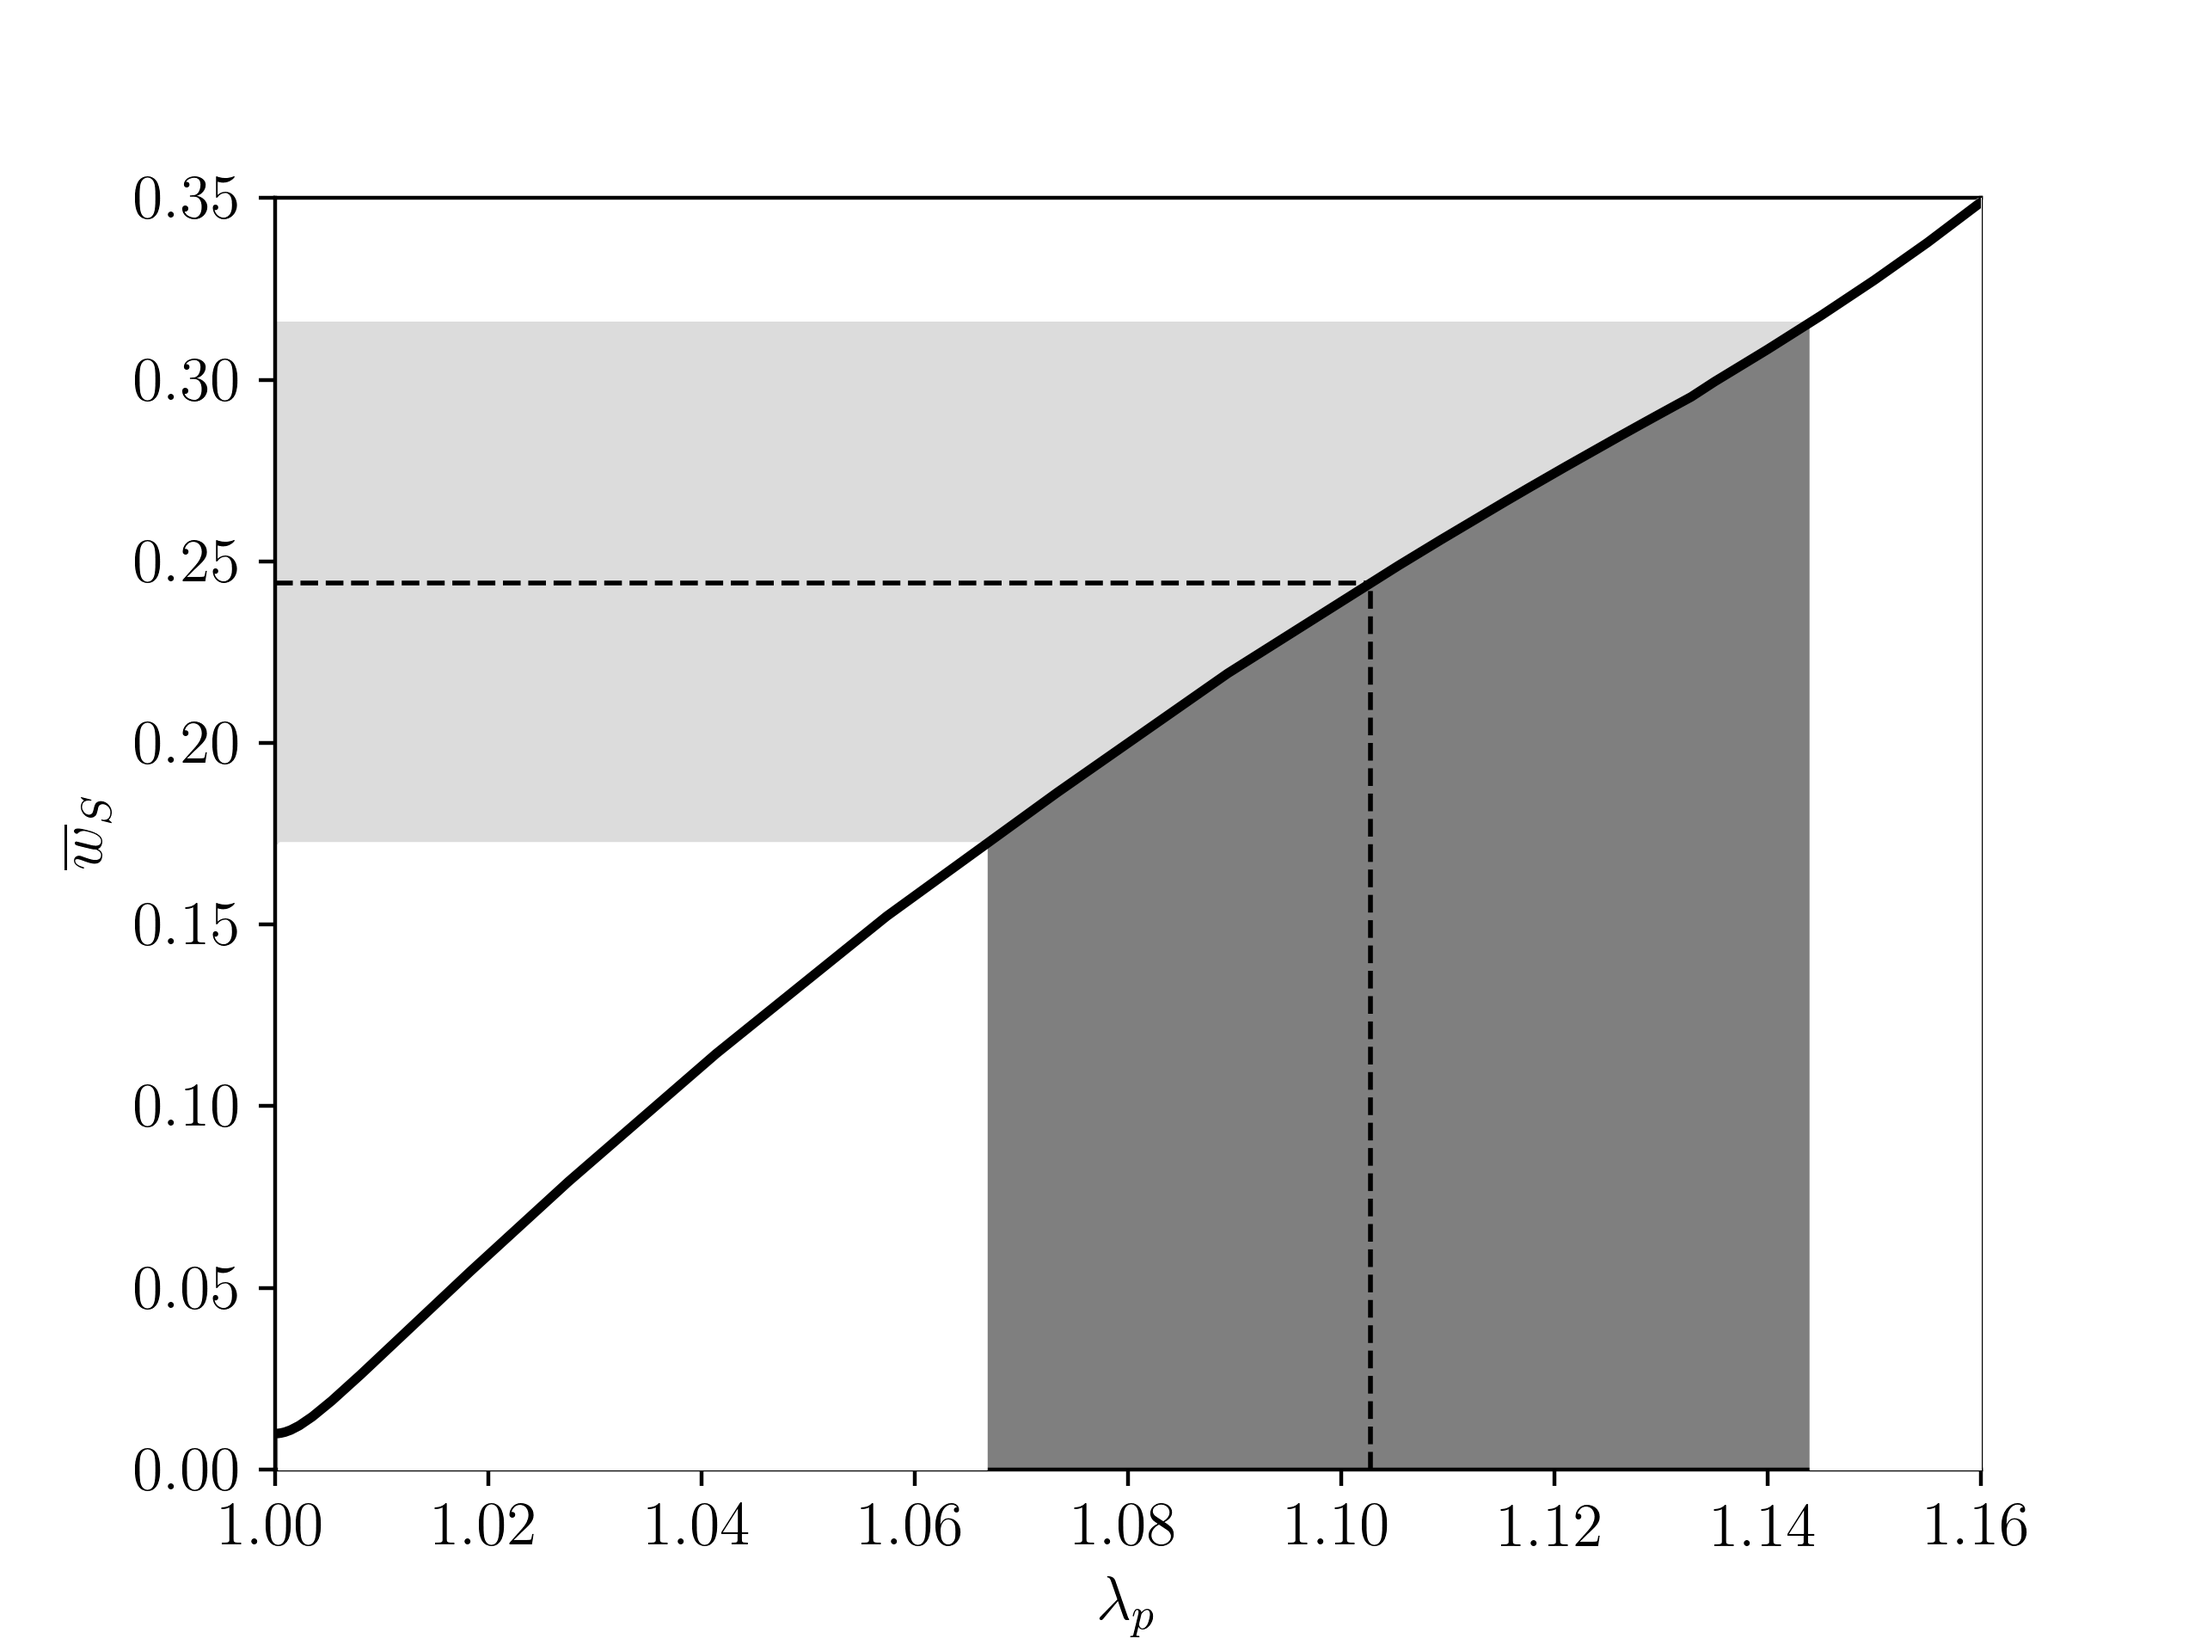
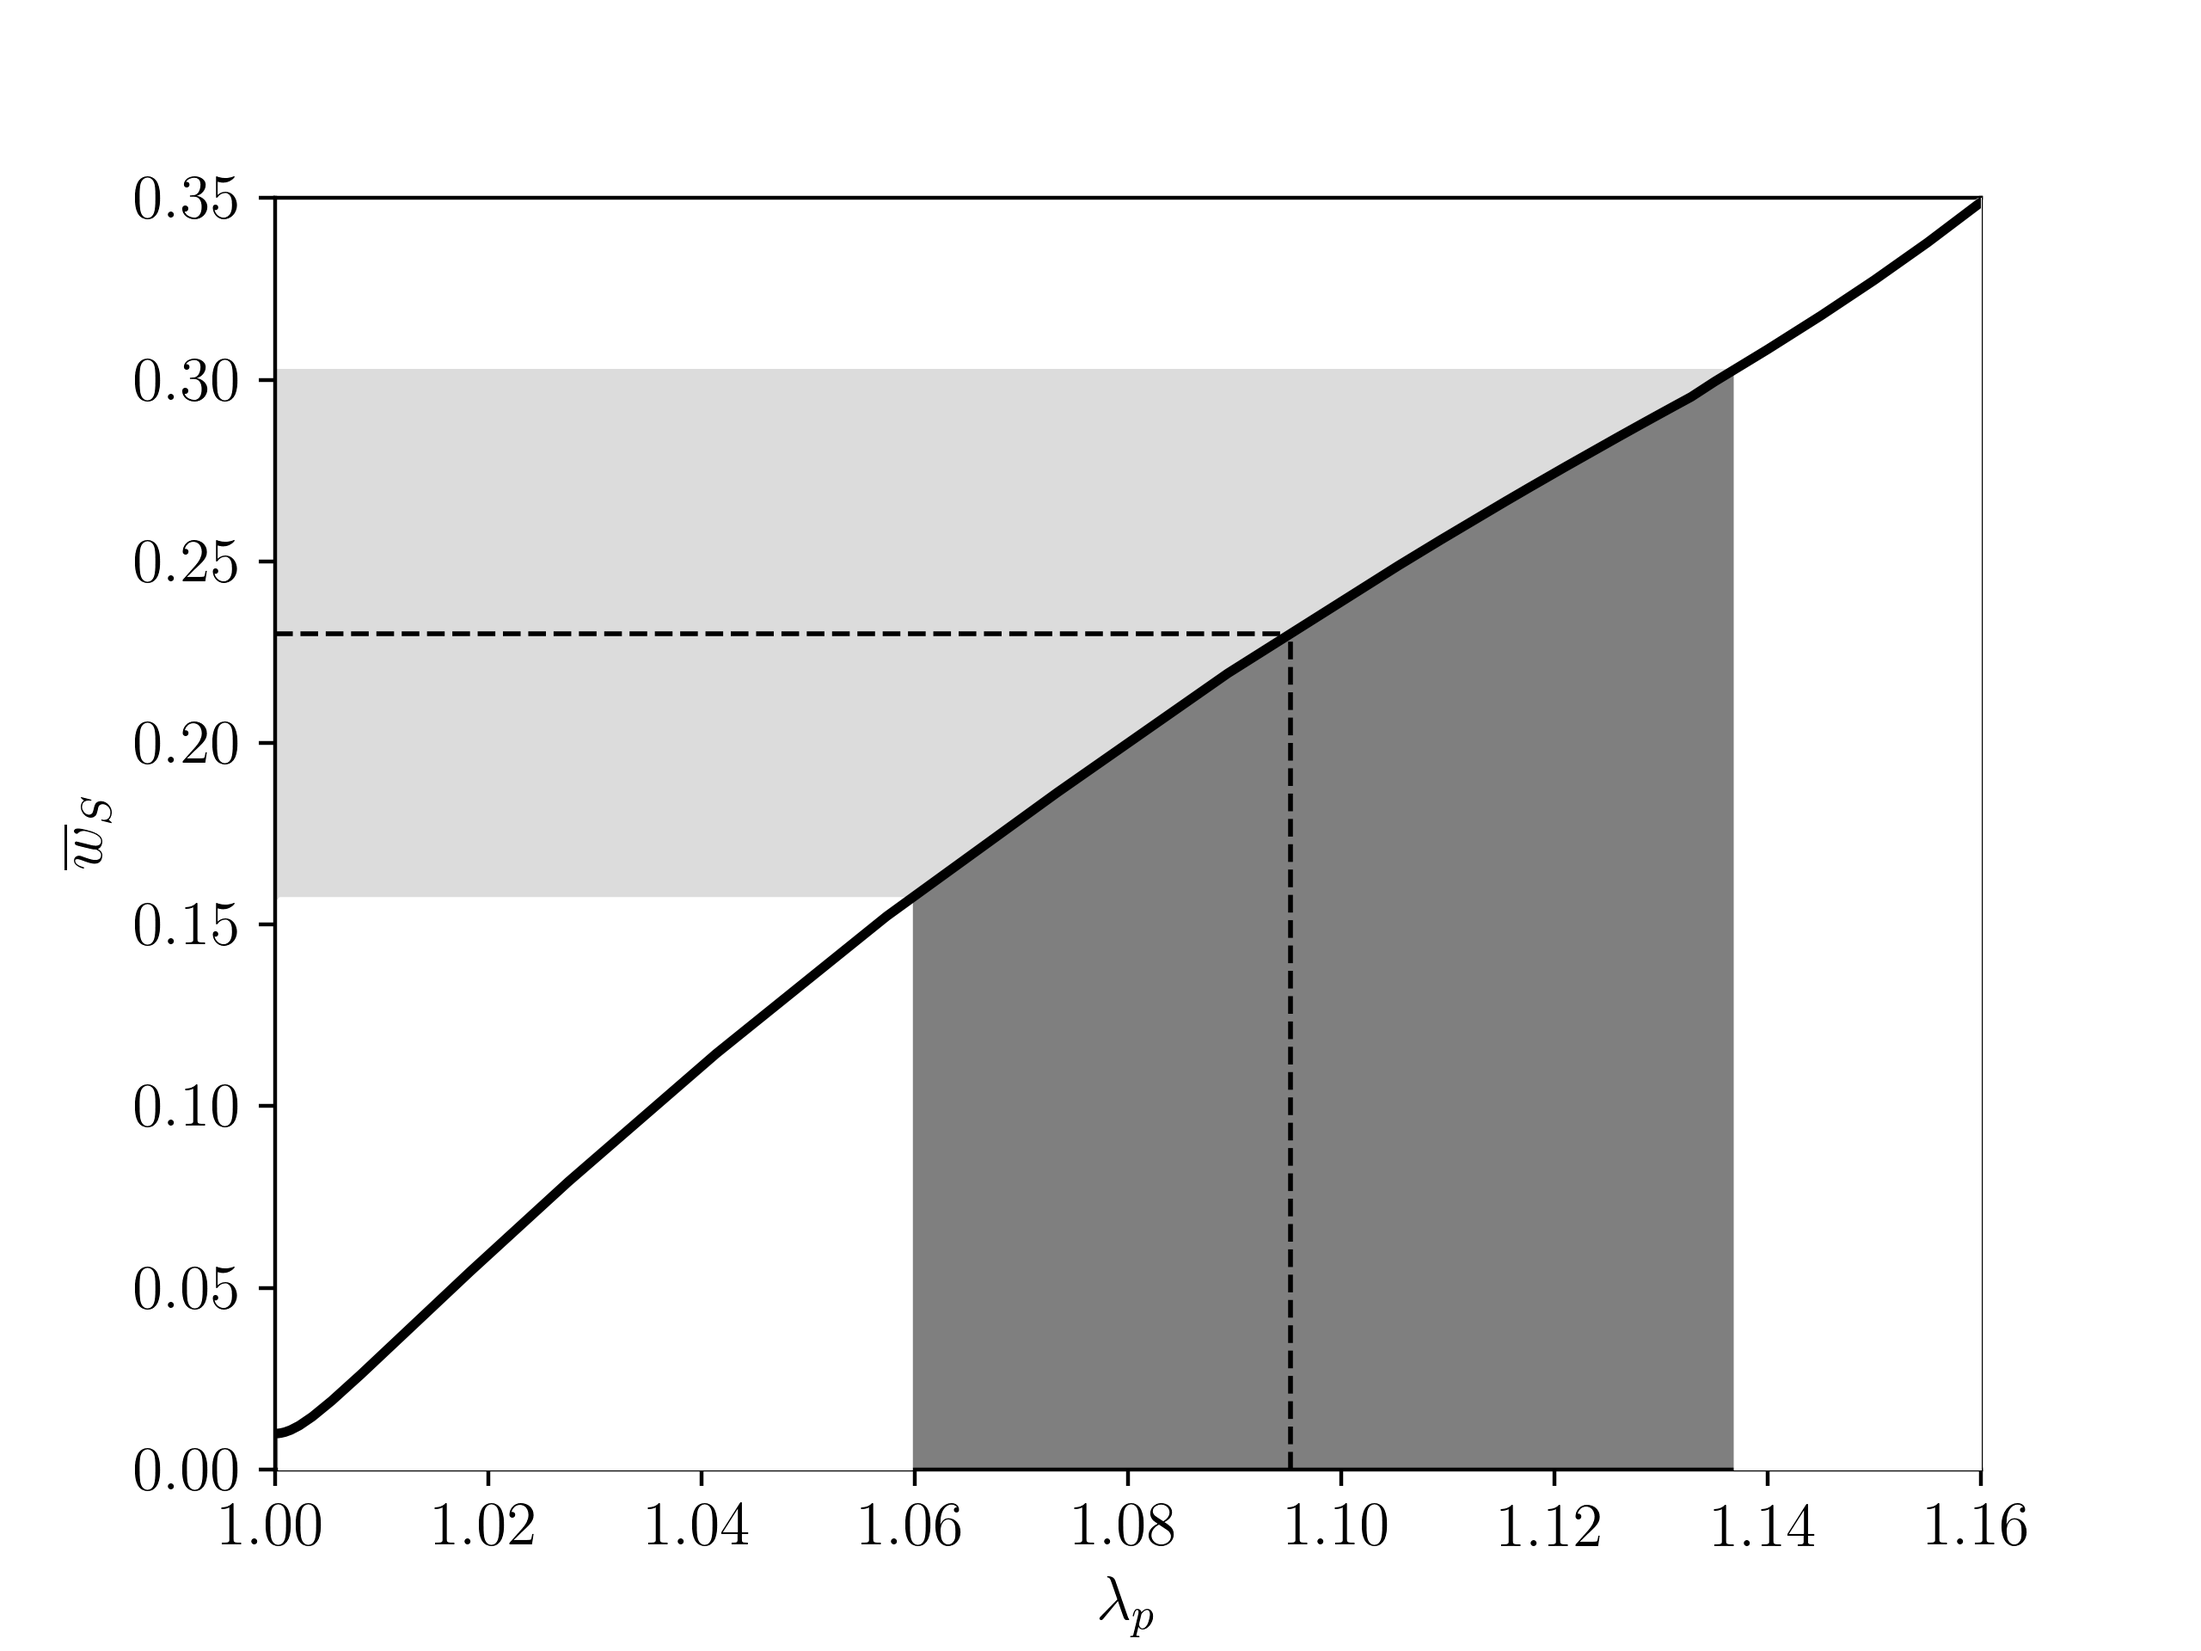
Add files via upload

Changed region(s): [[0.125, 0.1875, 0.8438, 0.9062], [0.125, 0.5, 0.4688, 0.9062]]

diff --git a/analysis/analysis_neonatal_adult.py b/analysis/analysis_neonatal_adult.py
@@ -95,28 +95,28 @@ class ExperimentalGroup(object):
         self.title = title
 
 neonateTran = ExperimentalGroup(
-        [0.171, 0.073],
+        [0.167, 0.039],
         '../simulations/results/',
         'neonate_tran_sim.csv',
         'neonate_transverse'
     )
 
 neonateLong = ExperimentalGroup(
-        [0.106, 0.045],
+        [0.095, 0.043],
         '../simulations/results/',
         'neonate_long_sim.csv',
         'neonate_longitudinal'
     )
 
 adultTran = ExperimentalGroup(
-        [0.244, 0.072],
+        [0.230, 0.073],
         '../simulations/results/',
         'adult_tran_sim.csv',
         'adult_transverse'
     )
 
 adultLong = ExperimentalGroup(
-        [0.094, 0.043],
+        [0.092, 0.046],
         '../simulations/results/',
         'adult_long_sim.csv',
         'adult_longitudinal'
